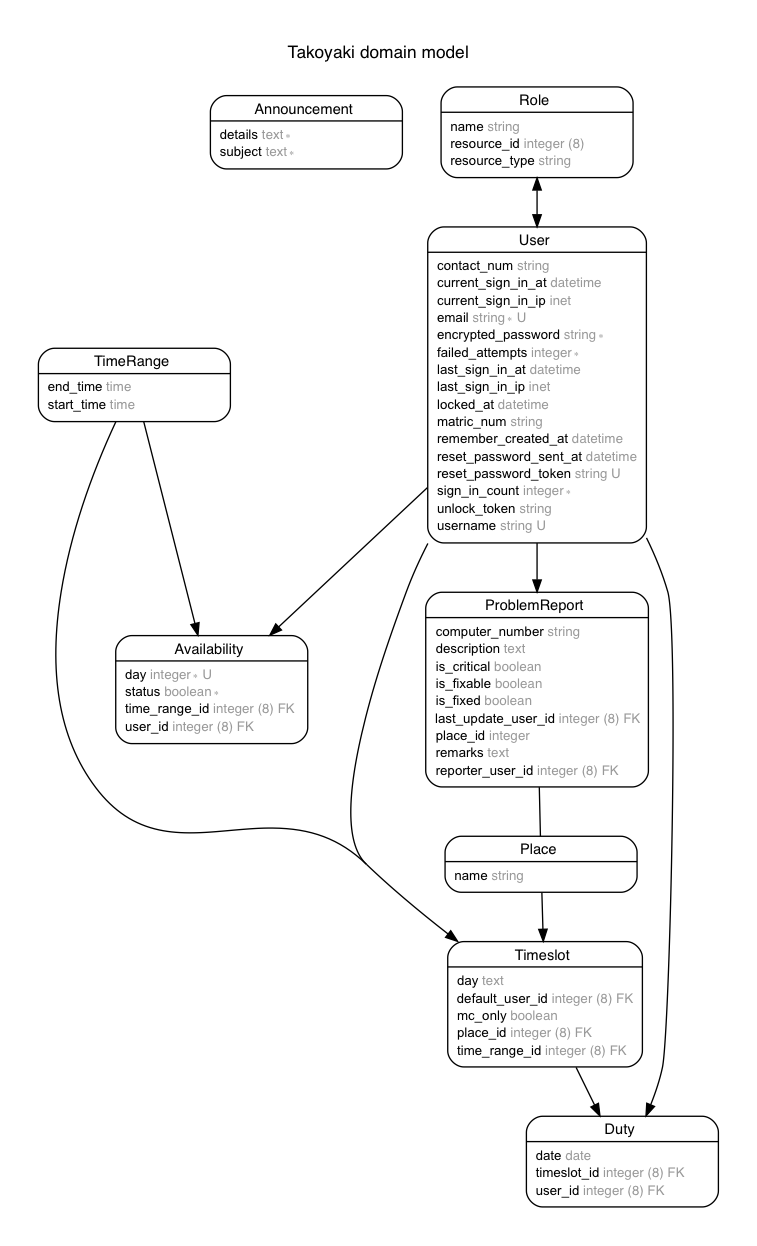
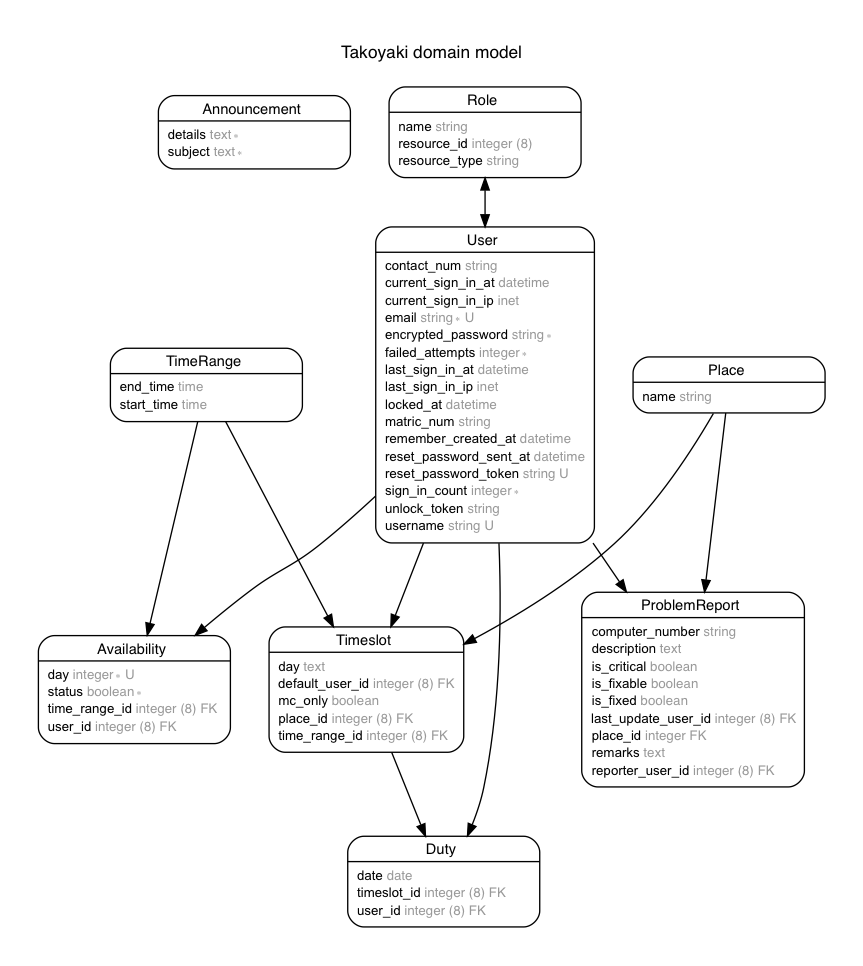
change has_one place to belongs_to place

diff --git a/app/models/problem_report.rb b/app/models/problem_report.rb
@@ -28,5 +28,5 @@
 class ProblemReport < ApplicationRecord
   belongs_to :reporter_user, :class_name => 'User'
   belongs_to :last_update_user, :class_name => 'User'
-  has_one :place
+  belongs_to :place
 end

diff --git a/app/controllers/problem_reports_controller.rb b/app/controllers/problem_reports_controller.rb
@@ -8,6 +8,6 @@ class ProblemReportsController < ApplicationController
     def update
     end
     
-    def destroy
+    def delete
     end
 end
